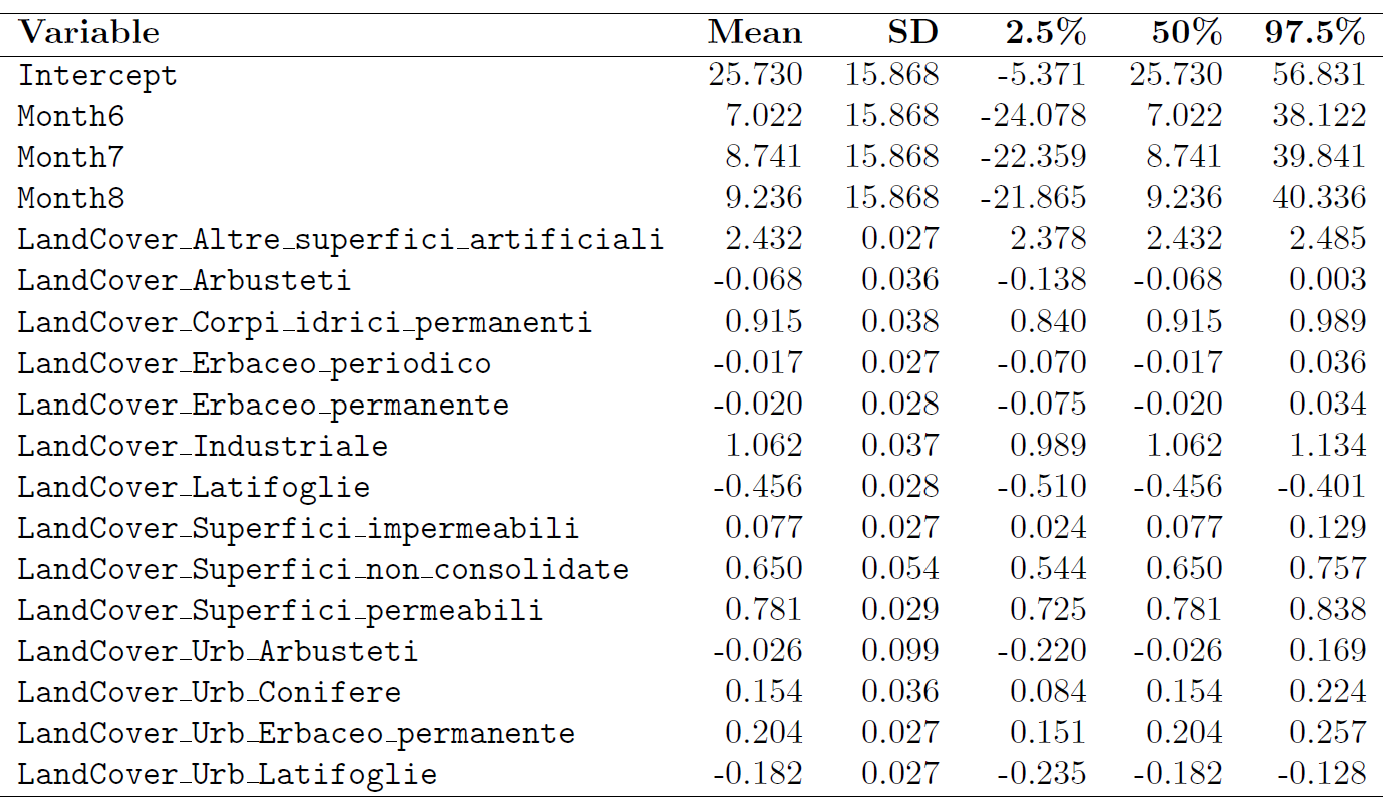
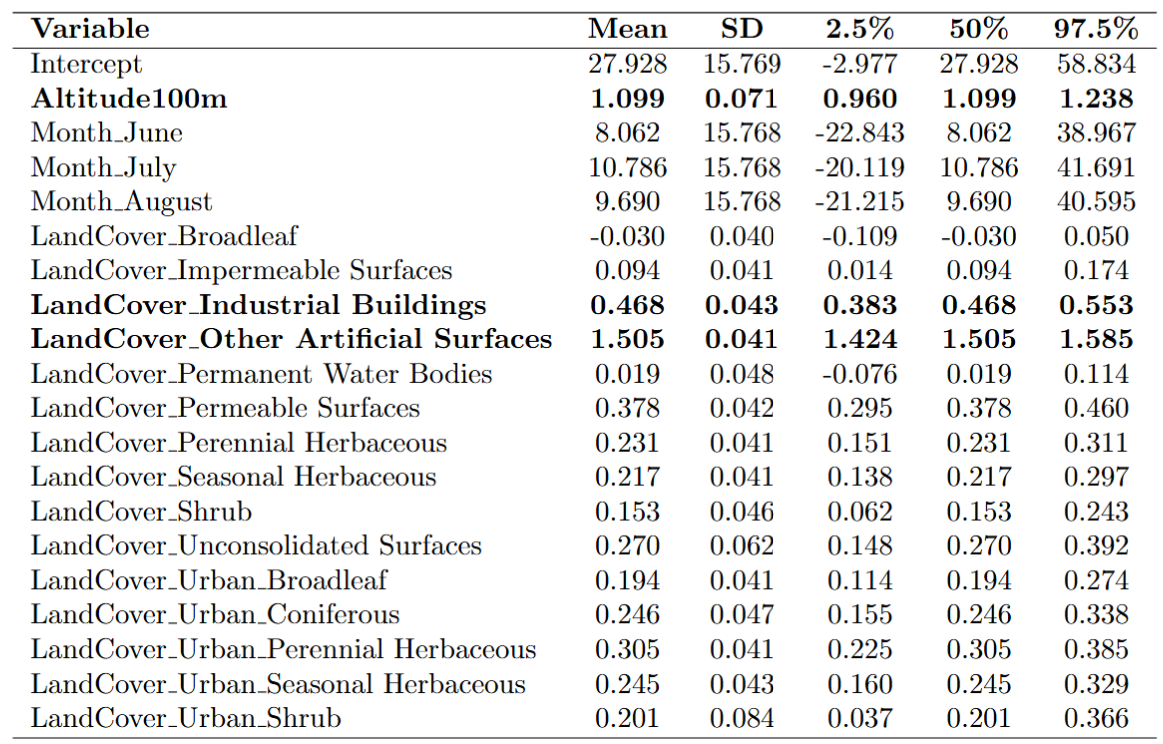
New with 2 models

Changed region(s): [[0.0, 0.0, 1.0, 1.0]]

diff --git a/resources/html_sidebar_content/04_MODEL.html b/resources/html_sidebar_content/04_MODEL.html
@@ -1,0 +1,72 @@
+<html xmlns:v="urn:schemas-microsoft-com:vml"
+xmlns:o="urn:schemas-microsoft-com:office:office"
+xmlns:w="urn:schemas-microsoft-com:office:word"
+xmlns:m="http://schemas.microsoft.com/office/2004/12/omml"
+xmlns="http://www.w3.org/TR/REC-html40">
+
+<head>
+<meta http-equiv=Content-Type content="text/html; charset=windows-1252">
+<meta name=ProgId content=Word.Document>
+<meta name=Generator content="Microsoft Word 15">
+<meta name=Originator content="Microsoft Word 15">
+<meta charset="UTF-8">
+<link rel=File-List href="03_REF_file/filelist.xml">
+<link rel=themeData href="03_REF_file/themedata.thmx">
+<link rel=colorSchemeMapping href="03_REF_file/colorschememapping.xml">
+
+<script type="text/javascript" async
+  src="https://cdn.jsdelivr.net/npm/mathjax@3/es5/tex-mml-chtml.js">
+</script>
+
+</head>
+
+<body lang=IT style='tab-interval:36.0pt;word-wrap:break-word'>
+
+<div style='border:none;border-bottom:none;
+padding:0cm 0cm 1.0pt 0cm'>
+
+<h2 style='text-align:left'><span class=SpellE><span style='font-size:12.0pt;
+font-family:"Arial",sans-serif'>A) Bayesian Spatially Varying Coefficient (SVC) Model for LST</span></span><span style='font-size:
+12.0pt;font-family:"Arial",sans-serif'><o:p></o:p></span></h2>
+<img width=550  src="04_MODEL_file/modelA.png" v:shapes="Immagine_x0020_4" style="position: relative; left: -60px;">
+<br><br>
+
+<h2 style='text-align:left'><span class=SpellE><span style='font-size:12.0pt;
+font-family:"Arial",sans-serif'>B) Bayesian SVC Model for SUHI</span></span><span style='font-size:
+12.0pt;font-family:"Arial",sans-serif'><o:p></o:p></span></h2>
+<img width=550  src="04_MODEL_file/modelB.png" v:shapes="Immagine_x0020_4" style="position: relative; left: -60px;">
+<br><br>
+
+<h2 style='text-align:left'><span class=SpellE><!-- /wp:heading --><!-- wp:paragraph --><!-- /wp:paragraph --><!-- wp:paragraph --><span
+style='font-size:11.0pt;font-family:"Arial",sans-serif;font-weight:normal'>
+where
+<ul>
+ <li> \( y_i(s) \) = LST at day \( i \) and pixel \( s \)</li><br>
+    <li> \( z_i(s) \) = SUHI at day \( i \) and pixel \( s \)</li><br>
+    <li> \( \mathbf{X}_i(s)\boldsymbol{\beta} \) = linear predictor for day \( i \) and pixel \( s \)</li><br>
+    <li> <span style=color:rgb(34,135,61);> \( u(s) \) </span> = <b>spatially varying intercept</b> (residual spatial effect)</li><br>
+    <li> <span style="color: rgb(173,26,16);"> \( t_i \cdot v(s) \) </span> = <b>spatially varying linear effect of time</b> (long-term <br>summer linear trend)</li><br>
+</ul>
+<ul style="list-style: none; padding-left: 0;">
+  <li style="position: relative; padding-left: 1.5em;">
+    <span style="position: absolute; left: 0; color: black;">&#10132;</span> 
+    <span style="color: rgb(34,135,61);">Spatially varying intercept</span> and 
+    <span style="color: rgb(173,26,16);">spatially varying linear effect of time</span> 
+    modelled as <b>latent Gaussian random fields</b> using the <b>SPDE</b> <br>
+    (Stochastic Partial Differential Equation) approach
+  </li>
+  <li style="position: relative; padding-left: 1.5em; margin-top: 0.5em;">
+    <span style="position: absolute; left: 0; color: black;">&#10132;</span> 
+    <b>Posterior excursion sets at 95% probability</b> for 
+    <span style="color: rgb(173,26,16);">\( t_i \cdot v(s) > 0 \)</span> and <br>
+    <span style="color: rgb(173,26,16);">\( t_i \cdot v(s) < 0 \)</span> to identify warming and cooling regions
+  </li>
+  <li style="position: relative; padding-left: 1.5em; margin-top: 0.5em;">
+    <span style="position: absolute; left: 0; color: black;">&#10132;</span> 
+    Inference performed with <b>INLA</b>
+  </li>
+</ul>
+</span></h2>
+</body>
+
+</html>

diff --git a/resources/html_sidebar_content/02_TAB.html b/resources/html_sidebar_content/02_TAB.html
@@ -27,14 +27,24 @@ xmlns="http://www.w3.org/TR/REC-html40">
 <h2 style='text-align:left'><span class=SpellE><!-- /wp:heading --><!-- wp:paragraph --><!-- /wp:paragraph --><!-- wp:paragraph --><span
 style='font-size:11.0pt;font-family:"Arial",sans-serif;font-weight:normal'>
 
-The table below presents the posterior estimates (mean, standard deviation, and 95% credible intervals) for the fixed effects included in the model.<br><br>
+The tables below presents the posterior estimates (mean, standard deviation, and 95% credible intervals) for the following fixed effects included in the models:<br><br>
 
-Land cover categories and urban classifications were derived from ISPRA datasets 
+<ul>
+<li>Altitude data sourced from the <a href="https://geoportale.regione.emilia-romagna.it/catalogo/dati-cartografici/altimetria/layer-2" target="_blank" rel="noopener noreferrer">Geoportal of Emilia-Romagna Region</a> (DTM 5x5) </li>
+<li>Month of remote sensing image acquisition</li>
+<li>Land cover categories and urban classifications were derived from ISPRA datasets 
 (<a href="https://groupware.sinanet.isprambiente.it/uso-copertura-e-consumo-di-suolo/" target="_blank" rel="noopener noreferrer">ISPRA Land Use and Land Cover</a>). 
-These covariates represent the land cover category of each 30m pixel (reference category: Conifere).<br><br>
+These covariates represent the land cover category of each 30m pixel (reference category: Coniferous).</li>
+</ul><br>
 
-
+<b>A) Bayesian Spatially Varying Coefficient (SVC) Model for LST</b>
+<br><br>
 <img width=550  src="02_TAB_file/table_fixed_effects.png" v:shapes="Immagine_x0020_4">
+<br><br><br>
+
+<b>B) Bayesian SVC Model for SUHI</b>
+<br><br>
+<img width=550  src="02_TAB_file/table_fixed_effectsB.png" v:shapes="Immagine_x0020_4">
   
 <o:p></o:p></span></h2>
   

diff --git a/index.html b/index.html
@@ -114,8 +114,8 @@
 					<div class="sidebar-tabs">
 						<ul role="tablist">
 							<li><a href="#tab1" title="About" role="tab"><i class="fa fa-bars"></i></a></li>
-						<!--	<li><a href="#tab2" title="TAB 2" role="tab"><strong style="font-size: 13px; font-family: 'arial';">Abstract</strong></a></li>
-							<li><a href="#tab2" title="GRASPA25" role="tab"><i class="fa fa-leaf"></i></a></li>  -->
+						<!--	<li><a href="#tab2" title="TAB 2" role="tab"><strong style="font-size: 13px; font-family: 'arial';">Abstract</strong></a></li>-->
+							<li><a href="#model" title="Methodology" role="tab"><i class="fa fa-area-chart"></i></a></li>  
 							<li><a href="#tab2" title="Results" role="tab"><i class="fa fa-table"></i></a></li>
 							<li><a href="#tab3" title="References" role="tab"><i class="fa fa-quote-left"></i></a></li>
 						<!--	<li><a href="#tab4" title="TAB 4" role="tab"><strong style="font-size: 13px; font-family: 'arial';">References</strong></a></li> -->
@@ -150,6 +150,15 @@
 							<iframe frameborder="0" scrolling="auto" 
 							style="height:90%; width:99%; position: absolute; top: 50px; left: 0; bottom: 0; right: 0; " 
 							src="./resources/html_sidebar_content/01_GRASPA.html"></iframe>
+						</div>
+						<div class="sidebar-pane" id="model">
+							<h1 class="sidebar-header">
+								Methodology
+								<span class="sidebar-close"><i class="fa fa-caret-left"></i></span>
+							</h1>
+							<iframe frameborder="0" scrolling="auto" 
+							style="height:90%; width:99%; position: absolute; top: 50px; left: 0; bottom: 0; right: 0; " 
+							src="./resources/html_sidebar_content/04_MODEL.html"></iframe>
 						</div>
 						<div class="sidebar-pane" id="tab2">
 							<h1 class="sidebar-header">

diff --git a/resources/html_sidebar_content/06_INFO.htm b/resources/html_sidebar_content/06_INFO.htm
@@ -27,9 +27,9 @@ xmlns="http://www.w3.org/TR/REC-html40">
 <h2 style='text-align:center'><span class=SpellE><!-- /wp:heading --><!-- wp:paragraph --><!-- /wp:paragraph --><!-- wp:paragraph --><span
 style='font-size:11.0pt;font-family:"Arial",sans-serif;font-weight:normal'>Corresponding author:<br><br>
 
-<strong>Marika D'Agostini, PhD Student</strong><br>
+<strong>Marika D'Agostini, PhD Student</strong><br><br>
 
-<em>Department of Statistical Sciences "Paolo Fortunati" - University of Bologna </em><br><br>
+<em>Department of Statistical Sciences "Paolo Fortunati" <br> University of Bologna </em><br><br>
 
 	<a href="mailto:[email redacted]" target="_blank">[email redacted]</a><br><br><br>
 

diff --git a/resources/html_sidebar_content/03_REF.html b/resources/html_sidebar_content/03_REF.html
@@ -22,7 +22,7 @@ xmlns="http://www.w3.org/TR/REC-html40">
 
 <body lang=IT style='tab-interval:36.0pt;word-wrap:break-word'>
 
-<div style='mso-element:para-border-div;border:none;border-bottom:solid windowtext 1.5pt;
+<div style='mso-element:para-border-div;border:none;border-bottom:none;
 padding:0cm 0cm 1.0pt 0cm'>
 
 <h2 style='text-align:left'><span class=SpellE><span style='font-size:12.0pt;